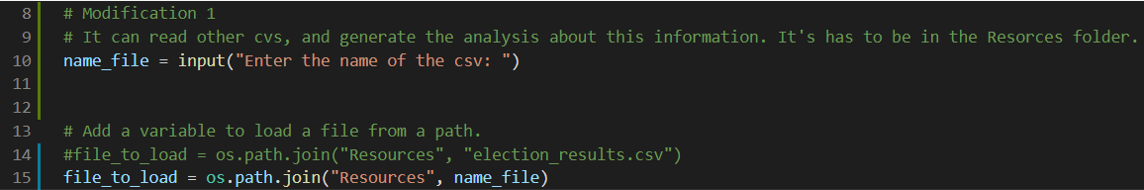
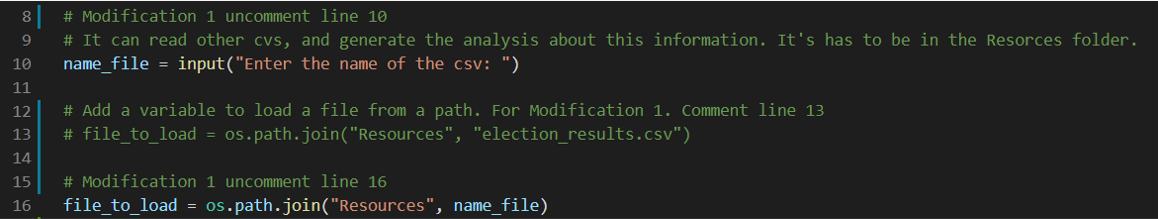
Add img

Changed region(s): [[0.0, 0.0, 1.0, 1.0]]

diff --git a/PyPoll_Challenge.py b/PyPoll_Challenge.py
@@ -5,13 +5,16 @@
 import csv
 import os
 
-# Modification 1
+# Modification 1 uncomment line 10
 # It can read other cvs, and generate the analysis about this information. It's has to be in the Resorces folder.
-name_file = input("Enter the name of the csv: ")
+# name_file = input("Enter the name of the csv: ")
 
-# Add a variable to load a file from a path.
-#file_to_load = os.path.join("Resources", "election_results.csv")
-file_to_load = os.path.join("Resources", name_file)
+# Add a variable to load a file from a path. For Modification 1. Comment line 13
+file_to_load = os.path.join("Resources", "election_results.csv")
+
+# Modification 1 uncomment line 16
+# file_to_load = os.path.join("Resources", name_file)
+
 # Add a variable to save the file to a path.
 file_to_save = os.path.join("analysis", "election_analysis.txt")
 

diff --git a/README.md b/README.md
@@ -60,19 +60,19 @@ The current code can be used to read another ".csv" file.
 To prove the code please follow these steps:
 
 1. Uncomment line 10 
-    name_file = input("Enter the name of the csv: ")
+    - name_file = input("Enter the name of the csv: ")
 2. Comment line 13
-    file_to_load = os.path.join("Resources", "election_results.csv")
-3. Uncomment line 14
-    file_to_load = os.path.join("Resources", name_file)
+    - file_to_load = os.path.join("Resources", "election_results.csv")
+3. Uncomment line 16
+    - file_to_load = os.path.join("Resources", name_file)
 4. Run PyPoll_Challenge.py
 5. In this case, we will work with the file that is in the folder Resources; the program will ask for the name of the file, please type "election_results_Mod1.csv"
 6. The program will read the file and process the data.
 7. The program will print the result on the console. 
 8. The program will write the result on the election_analysis.txt file in the Analysis folder.
 
-
 ![alt text](./Resources/modification1.png)
+
 
 ### Modification 2
 
